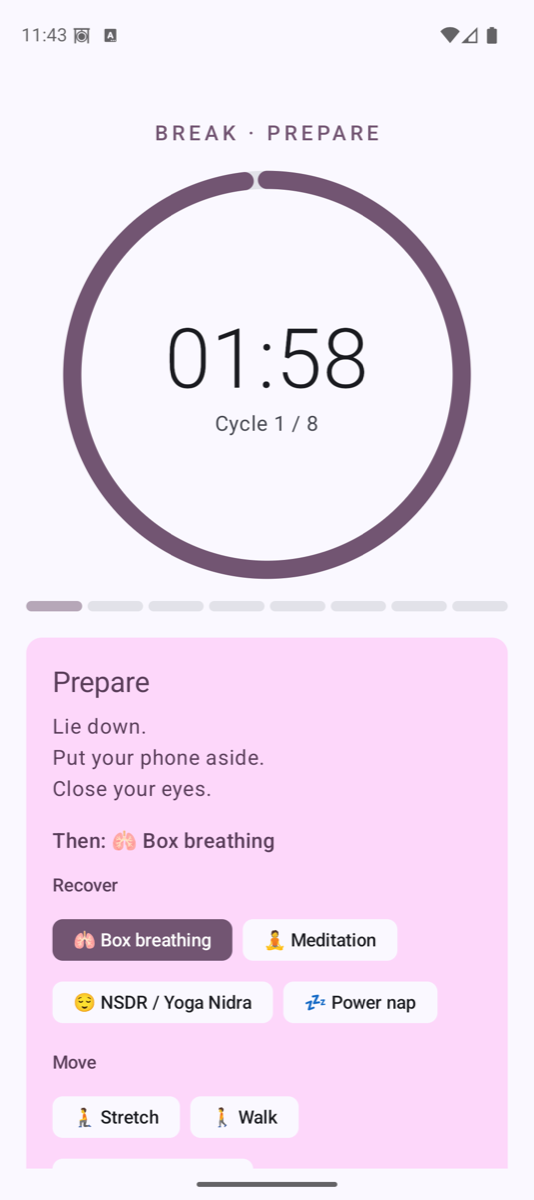
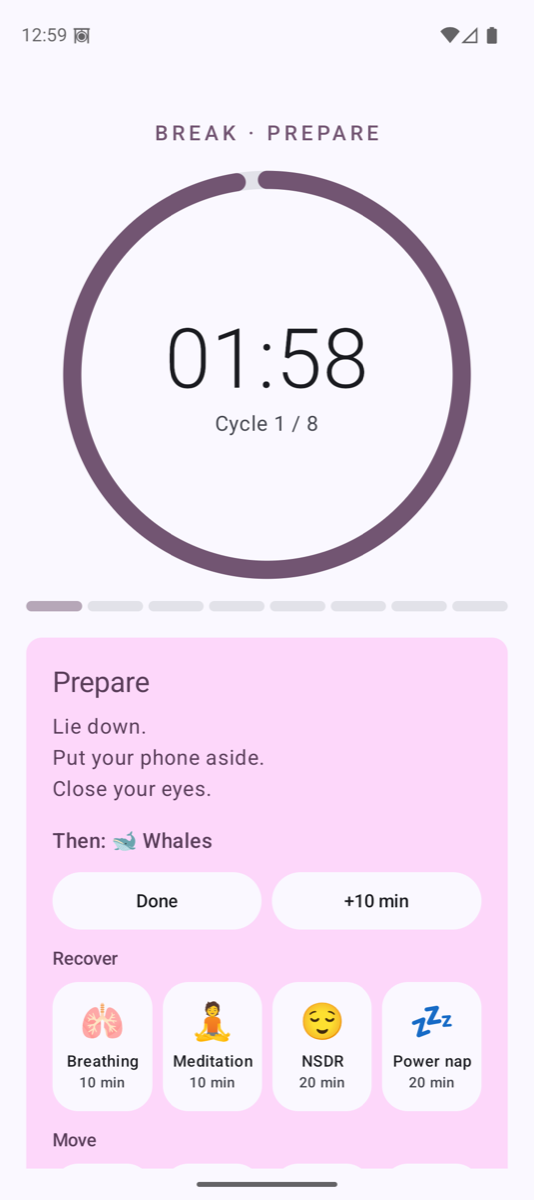
docs: refresh README screenshots for tiles, quick timers and one-row controls

diff --git a/README.md b/README.md
@@ -35,11 +35,11 @@ morning, put the phone away, and it runs **8 × (50 min work + 10 min break)** o
 
 ## Screenshots
 
-| Home | Work + focus music | Break · prepare | Box breathing |
+| Home + quick timers | Work + focus music | Break · pick an activity | Stretch (video + steps) |
 |:-:|:-:|:-:|:-:|
-| <img src="docs/screenshots/setup.png" width="200"> | <img src="docs/screenshots/work.png" width="200"> | <img src="docs/screenshots/break-prepare.png" width="200"> | <img src="docs/screenshots/break-breathing.png" width="200"> |
+| <img src="docs/screenshots/setup.png" width="200"> | <img src="docs/screenshots/work.png" width="200"> | <img src="docs/screenshots/break-prepare.png" width="200"> | <img src="docs/screenshots/break-activity.png" width="200"> |
 
-| History (sample data) | Settings | Dark: work | Dark: break |
+| History (sample data) | Settings | Dark: work | Dark: break tiles |
 |:-:|:-:|:-:|:-:|
 | <img src="docs/screenshots/history.png" width="200"> | <img src="docs/screenshots/settings.png" width="200"> | <img src="docs/screenshots/work-dark.png" width="200"> | <img src="docs/screenshots/break-dark.png" width="200"> |
 
